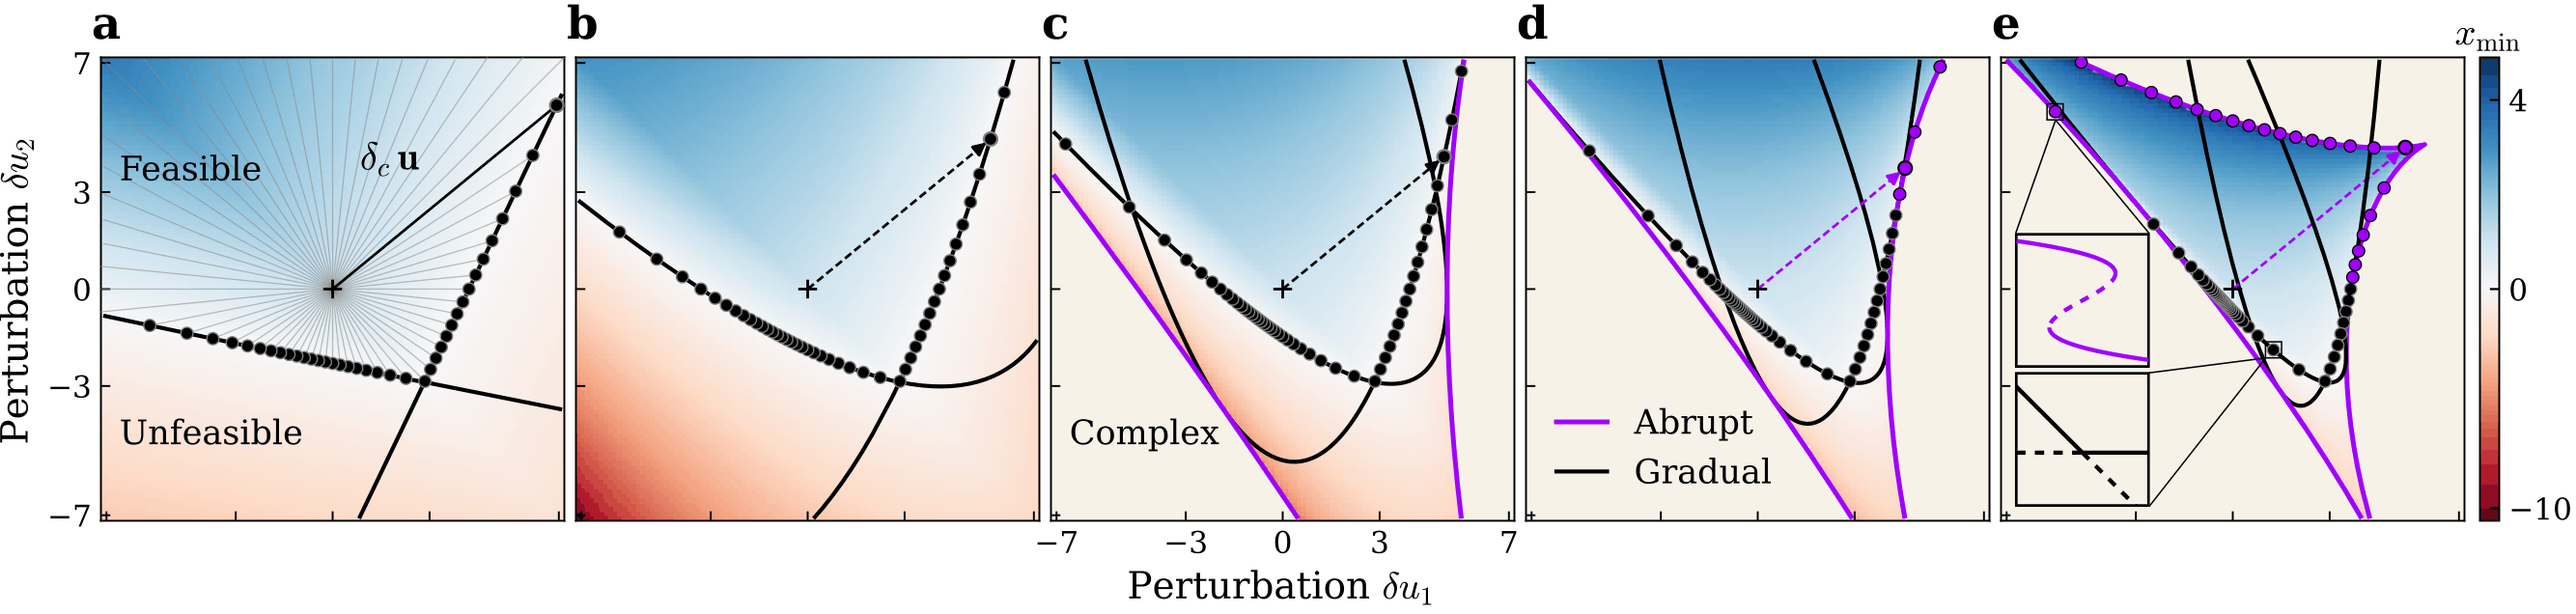
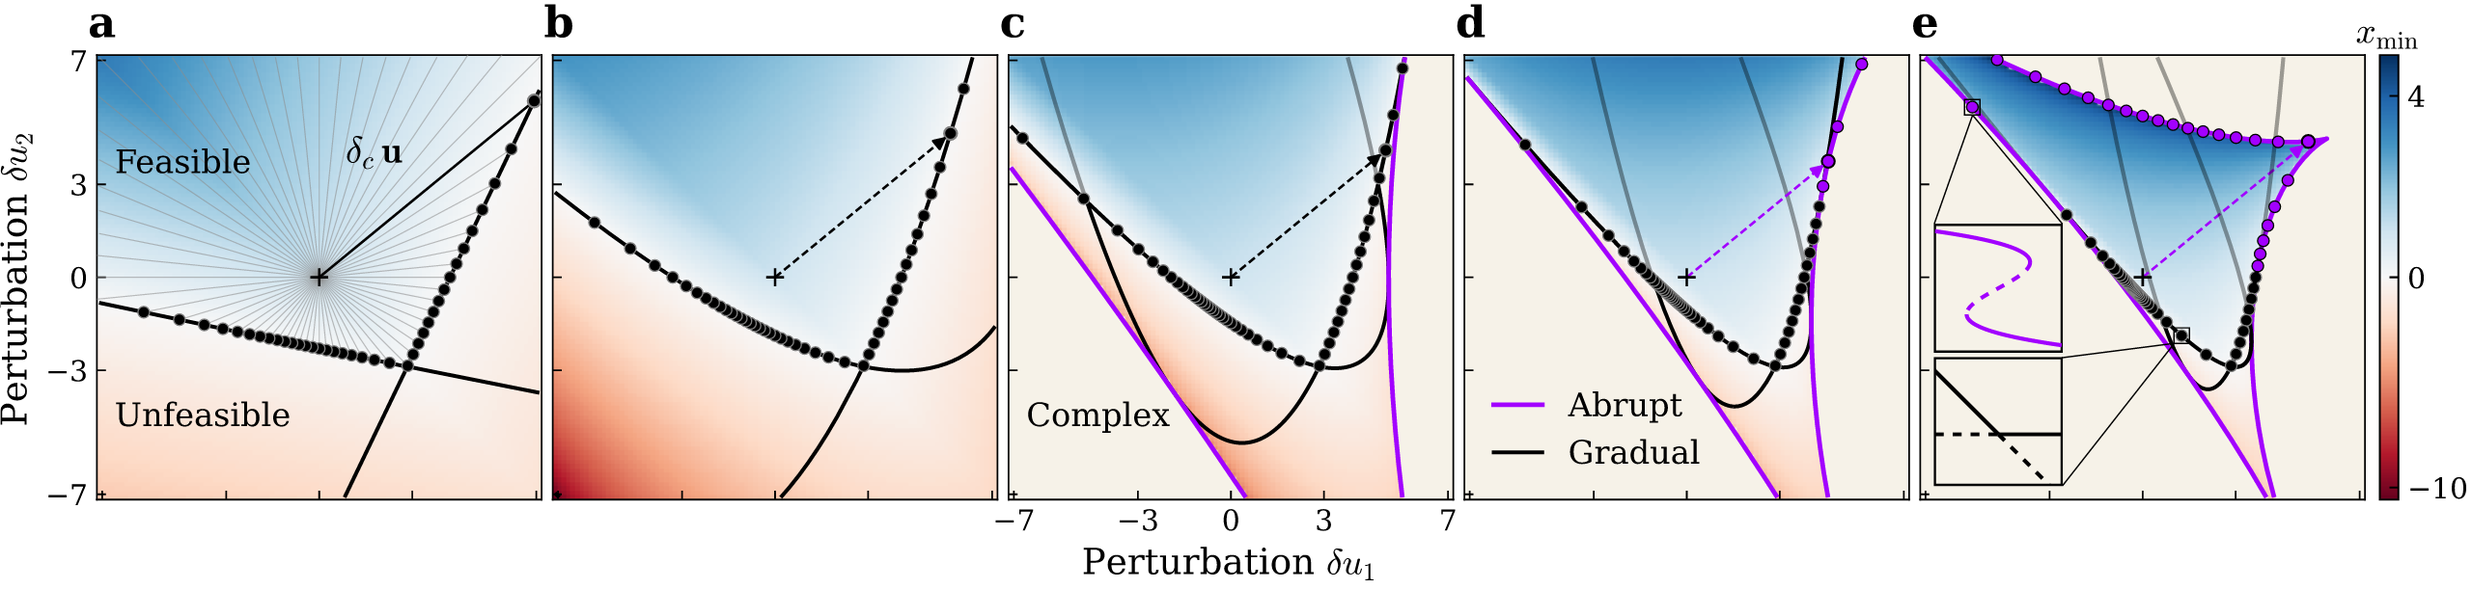
polish figure panel labels and add n=2 discriminant script
- harmonize panel letters across figures (lowercase, repositioned
  above axes; add letters to muA_muB grid)
- si_panels: swap discrete n-legend for a horizontal colorbar
- tipping_prevalence_panels: rename y-label to "Boundary probability"
- alpha_eff_hull_vs_taylor: nudge inset for panel b, always show inset
  axis labels
- add figures/n2_discriminants.m2 (Macaulay2 script for analytical
  zero/complex boundary discriminants in n=2)

diff --git a/figures/si_panels.py b/figures/si_panels.py
@@ -289,22 +289,26 @@ def _add_row_labels(fig: plt.Figure, axes: np.ndarray, labels: List[str]) -> Non
 
 
 def _add_shared_legend(fig: plt.Figure, n_values: List[int], color_map: dict) -> None:
-    handles = [
-        mpl.lines.Line2D([0], [0], color=color_map[n], marker="o",
-                         markersize=3.5, markeredgecolor="black",
-                         markeredgewidth=0.3, linewidth=1.0,
-                         label=f"{n}")
-        for n in n_values
-    ]
-    fig.legend(handles=handles, title=r"$n$",
-               loc="lower center", ncol=len(n_values),
-               bbox_to_anchor=(0.5, -0.005),
-               handlelength=1.2, columnspacing=0.9,
-               handletextpad=0.3, borderpad=0.3)
+    cmap_base, _, norm = f3.build_colormaps(len(n_values))
+    sm = mpl.cm.ScalarMappable(norm=norm, cmap=cmap_base)
+    sm.set_array([])
+
+    cbar_ax = fig.add_axes([0.34, 0.005, 0.32, 0.010])
+
+    target_ns = {4, 12, 20}
+    tick_positions = [i for i, n in enumerate(n_values) if int(n) in target_ns]
+    tick_labels = [str(int(n)) for n in n_values if int(n) in target_ns]
+
+    cbar = fig.colorbar(sm, cax=cbar_ax, ticks=tick_positions,
+                        orientation="horizontal")
+    cbar.ax.set_xticklabels(tick_labels)
+    cbar.ax.minorticks_off()
+    cbar.ax.tick_params(labelsize=6, pad=1)
+    cbar.ax.set_title(r"$n$", fontsize=7, pad=2, loc="center")
 
 
 def _abc_letter(row: int, col: int, ncols: int) -> str:
-    return chr(ord("A") + row * ncols + col)
+    return chr(ord("a") + row * ncols + col)
 
 
 def build_fig_boundary_fractions(banks_data: Dict[str, dict],

diff --git a/figures/alpha_eff_hull_vs_taylor.py b/figures/alpha_eff_hull_vs_taylor.py
@@ -152,8 +152,8 @@ def draw_panel(ax, data, color_map, label_size, tick_label_size,
                       direction="in", length=3.5)
     ax._secax = secax
 
-    ax.text(0.04, 0.96, panel_letter, transform=ax.transAxes,
-            fontsize=label_size, fontweight="bold", va="top", ha="left")
+    ax.text(-0.05, 1.24, panel_letter, transform=ax.transAxes,
+            fontsize=label_size, fontweight="bold", va="bottom", ha="left")
     ax.text(0.96, 0.96, title, transform=ax.transAxes,
             fontsize=label_size, va="top", ha="right")
 
@@ -245,7 +245,7 @@ def make_figure(output_stem: Path, dpi: int) -> None:
     #       below the plateau and right of the jump is empty → lower-right.
     inset_bboxes = {
         "a": (0.22, 0.46, 0.44, 0.40),
-        "b": (0.22, 0.46, 0.44, 0.40),
+        "b": (0.22, 0.52, 0.44, 0.36),
         "c": (0.55, 0.24, 0.40, 0.32),
     }
     for ax, letter, (title, data) in zip(axes, letters, bank_data):
@@ -253,8 +253,8 @@ def make_figure(output_stem: Path, dpi: int) -> None:
                    title=title, panel_letter=letter,
                    show_ylabel=(letter == "a"),
                    inset_bbox=inset_bboxes[letter],
-                   show_inset_xlabel=(letter in ("a", "c")),
-                   show_inset_ylabel=(letter in ("a", "c")),
+                   show_inset_xlabel=True,
+                   show_inset_ylabel=True,
                    inset_x_key=("taylor" if letter == "c" else "hull"))
 
     # Tight-wrap: compute unified x/y limits directly from plotted data

diff --git a/figures/tipping_prevalence_panels.py b/figures/tipping_prevalence_panels.py
@@ -827,7 +827,7 @@ def main():
 
     # ── axis labels ────────────────────────────────────────────────────────
 
-    # Shared "Boundary prevalence" y-label (centred over all 3 rows)
+    # Shared "Boundary probability" y-label (centred over all 3 rows)
     YLABEL_EXTRA_PAD = 0.06
     YLABEL_OFFSET    = 0.455 + YLABEL_EXTRA_PAD
     x_ylabel_L = (MARGIN_L + YLABEL_L - YLABEL_OFFSET) / FIG_W
@@ -835,7 +835,7 @@ def main():
     pos_top = ax_prev[(0, 0)].get_position()
     pos_bot = ax_prev[(2, 0)].get_position()
     y_center_left = (pos_bot.y0 + pos_top.y0 + pos_top.height) / 2
-    fig.text(x_ylabel_L, y_center_left, "Boundary prevalence",
+    fig.text(x_ylabel_L, y_center_left, "Boundary probability",
              rotation=90, ha="center", va="center", fontsize=label_size * 1.15)
 
     # Shared "HOI strength (α)" x-label (centred under 3×2 grid)

diff --git a/figures/multimodel_alpha_eff_metrics.py b/figures/multimodel_alpha_eff_metrics.py
@@ -215,13 +215,13 @@ def make_combined_figure(groups_taylor, groups_hull, output_stem: Path,
             ax_l, groups_taylor,
             r"Non-linearity strength ($\alpha_\mathrm{eff}^{\mathrm{Taylor}}$)",
             label_size, tick_label_size, log_scale,
-            suppress_legend_cbar=True, panel_letter="b",
+            suppress_legend_cbar=True, panel_letter="a",
         )
         _draw_panel(
             ax_r, groups_hull,
             r"Non-linearity strength ($\alpha_\mathrm{eff}^{\mathrm{hull}}$)",
             label_size, tick_label_size, log_scale,
-            suppress_legend_cbar=False, panel_letter="c",
+            suppress_legend_cbar=False, panel_letter="b",
         )
     finally:
         restore()

diff --git a/figures/muA_muB_grid_panels.py b/figures/muA_muB_grid_panels.py
@@ -253,6 +253,13 @@ def plot_grid_for_flag(
                 ax.set_title(rf"$\mu_B = {mu_b:g}$",
                              fontsize=label_size * 1.10, pad=4)
 
+            letter = chr(ord("a") + r * ncols + c)
+            ax.text(0.04, 0.94, letter,
+                    transform=ax.transAxes, ha="left", va="top",
+                    fontsize=label_size * 0.95, fontweight="bold",
+                    bbox=dict(facecolor="white", edgecolor="none",
+                              alpha=0.65, pad=1.2))
+
     # ── μ_A row labels just outside the right y-axis (mirror μ_B title pad) ──
     pad_in = 4 / 72.0   # match ax.set_title(..., pad=4)
     for r, mu_a in enumerate(mu_a_values):
